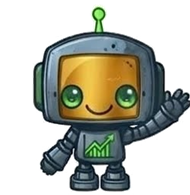
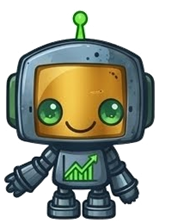
העשרת ניפנוף טולי לרצף חלק של 5 פריימים (מנוחה + 4 שלבי הרמה/ניפנוף)
טל ביקש להעשיר עוד עם פריימים מהגיליון עם 16 הפוזות כדי לקבל
תנועת יד חלקה יותר. נבחרו והתיישרו 5 פריימים עקביים: מנוחה,
הרמת יד (נמוך), ניפנוף (בינוני), ניפנוף (גבוה, זווית א'), ניפנוף
(גבוה, זווית ב') - עם ניקוי פגם קטן שנמצא באחד הפריימים. הרצף:
מנוחה -> הרמה -> 3 שלבי ניפנוף -> חזרה בסדר הפוך -> מנוחה,
עדיין במעבר חד (לא דהייה) בין כל שלב.

diff --git a/style.css b/style.css
@@ -1944,21 +1944,23 @@ body.keyboard-nav [tabindex]:focus {
 .tuli-fab:hover { transform: scale(1.06); }
 .tuli-fab:focus-visible { outline: 3px solid var(--gold); outline-offset: 3px; border-radius: 50%; }
 .tuli-fab img { width: 67px; height: 67px; object-fit: contain; animation: tuliBob 2.6s ease-in-out infinite; }
-.tuli-fab .tuli-fab-rise, .tuli-fab .tuli-fab-waveA, .tuli-fab .tuli-fab-waveB { position: absolute; inset: 0; }
-.tuli-fab .tuli-fab-rest  { animation: tuliBob 2.6s ease-in-out infinite, tuliRest 6s steps(1) infinite; }
-.tuli-fab .tuli-fab-rise  { animation: tuliBob 2.6s ease-in-out infinite, tuliRise 6s steps(1) infinite; }
-.tuli-fab .tuli-fab-waveA { animation: tuliBob 2.6s ease-in-out infinite, tuliWaveA 6s steps(1) infinite; }
-.tuli-fab .tuli-fab-waveB { animation: tuliBob 2.6s ease-in-out infinite, tuliWaveB 6s steps(1) infinite; }
+.tuli-fab .tuli-fab-w1, .tuli-fab .tuli-fab-w2, .tuli-fab .tuli-fab-w3, .tuli-fab .tuli-fab-w4 { position: absolute; inset: 0; }
+.tuli-fab .tuli-fab-rest { animation: tuliBob 2.6s ease-in-out infinite, tuliRest 7s steps(1) infinite; }
+.tuli-fab .tuli-fab-w1   { animation: tuliBob 2.6s ease-in-out infinite, tuliW1 7s steps(1) infinite; }
+.tuli-fab .tuli-fab-w2   { animation: tuliBob 2.6s ease-in-out infinite, tuliW2 7s steps(1) infinite; }
+.tuli-fab .tuli-fab-w3   { animation: tuliBob 2.6s ease-in-out infinite, tuliW3 7s steps(1) infinite; }
+.tuli-fab .tuli-fab-w4   { animation: tuliBob 2.6s ease-in-out infinite, tuliW4 7s steps(1) infinite; }
 @keyframes tuliBob { 0%, 100% { transform: translateY(0); } 50% { transform: translateY(-4px); } }
-/* רצף ניפנוף: מנוחה -> הרמת יד -> ניפנוף -> ניפנוף -> הרמת יד -> מנוחה */
-@keyframes tuliRest  { 0%, 55% { opacity: 1; } 55.01%, 84.99% { opacity: 0; } 85%, 100% { opacity: 1; } }
-@keyframes tuliRise  { 0%, 55% { opacity: 0; } 55.01%, 60% { opacity: 1; } 60.01%, 79.99% { opacity: 0; } 80%, 85% { opacity: 1; } 85.01%, 100% { opacity: 0; } }
-@keyframes tuliWaveA { 0%, 60% { opacity: 0; } 60.01%, 65% { opacity: 1; } 65.01%, 74.99% { opacity: 0; } 75%, 80% { opacity: 1; } 80.01%, 100% { opacity: 0; } }
-@keyframes tuliWaveB { 0%, 65% { opacity: 0; } 65.01%, 75% { opacity: 1; } 75.01%, 100% { opacity: 0; } }
+/* רצף ניפנוף חלק: מנוחה -> הרמה -> ניפנוף x3 -> חזרה -> מנוחה */
+@keyframes tuliRest { 0%, 50% { opacity: 1; } 50.01%, 86.99% { opacity: 0; } 87%, 100% { opacity: 1; } }
+@keyframes tuliW1 { 0%, 50% { opacity: 0; } 50.01%, 55% { opacity: 1; } 55.01%, 81.99% { opacity: 0; } 82%, 87% { opacity: 1; } 87.01%, 100% { opacity: 0; } }
+@keyframes tuliW2 { 0%, 55% { opacity: 0; } 55.01%, 60% { opacity: 1; } 60.01%, 76.99% { opacity: 0; } 77%, 82% { opacity: 1; } 82.01%, 100% { opacity: 0; } }
+@keyframes tuliW3 { 0%, 60% { opacity: 0; } 60.01%, 65% { opacity: 1; } 65.01%, 71.99% { opacity: 0; } 72%, 77% { opacity: 1; } 77.01%, 100% { opacity: 0; } }
+@keyframes tuliW4 { 0%, 65% { opacity: 0; } 65.01%, 72% { opacity: 1; } 72.01%, 100% { opacity: 0; } }
 @media (prefers-reduced-motion: reduce) {
-  .tuli-fab .tuli-fab-rest, .tuli-fab .tuli-fab-rise, .tuli-fab .tuli-fab-waveA, .tuli-fab .tuli-fab-waveB { animation: none; }
+  .tuli-fab .tuli-fab-rest, .tuli-fab .tuli-fab-w1, .tuli-fab .tuli-fab-w2, .tuli-fab .tuli-fab-w3, .tuli-fab .tuli-fab-w4 { animation: none; }
   .tuli-fab .tuli-fab-rest { opacity: 1; }
-  .tuli-fab .tuli-fab-rise, .tuli-fab .tuli-fab-waveA, .tuli-fab .tuli-fab-waveB { opacity: 0; }
+  .tuli-fab .tuli-fab-w1, .tuli-fab .tuli-fab-w2, .tuli-fab .tuli-fab-w3, .tuli-fab .tuli-fab-w4 { opacity: 0; }
 }
 .tuli-panel {
   position: absolute; bottom: 68px; left: 0; width: 320px; max-height: 480px;

diff --git a/index.html b/index.html
@@ -2125,9 +2125,10 @@
   <div class="tuli-widget" id="tuli-widget">
     <button class="tuli-fab" id="tuli-fab" aria-label="פתח את טולי - העוזר הוירטואלי" aria-expanded="false">
       <img class="tuli-fab-rest" src="tuli-bot.png" alt="" />
-      <img class="tuli-fab-rise" src="tuli-bot-wave1.png" alt="" />
-      <img class="tuli-fab-waveA" src="tuli-bot-wave2.png" alt="" />
-      <img class="tuli-fab-waveB" src="tuli-bot-wave3.png" alt="" />
+      <img class="tuli-fab-w1" src="tuli-bot-wave1.png" alt="" />
+      <img class="tuli-fab-w2" src="tuli-bot-wave2.png" alt="" />
+      <img class="tuli-fab-w3" src="tuli-bot-wave3.png" alt="" />
+      <img class="tuli-fab-w4" src="tuli-bot-wave4.png" alt="" />
     </button>
     <div class="tuli-panel" id="tuli-panel" role="dialog" aria-label="צ'אט עם טולי" aria-hidden="true">
       <div class="tuli-panel-head">

diff --git a/en/index.html b/en/index.html
@@ -1150,9 +1150,10 @@
   <div class="tuli-widget" id="tuli-widget">
     <button class="tuli-fab" id="tuli-fab" aria-label="Open Tuli - the virtual assistant" aria-expanded="false">
       <img class="tuli-fab-rest" src="../tuli-bot.png" alt="" />
-      <img class="tuli-fab-rise" src="../tuli-bot-wave1.png" alt="" />
-      <img class="tuli-fab-waveA" src="../tuli-bot-wave2.png" alt="" />
-      <img class="tuli-fab-waveB" src="../tuli-bot-wave3.png" alt="" />
+      <img class="tuli-fab-w1" src="../tuli-bot-wave1.png" alt="" />
+      <img class="tuli-fab-w2" src="../tuli-bot-wave2.png" alt="" />
+      <img class="tuli-fab-w3" src="../tuli-bot-wave3.png" alt="" />
+      <img class="tuli-fab-w4" src="../tuli-bot-wave4.png" alt="" />
     </button>
     <div class="tuli-panel" id="tuli-panel" role="dialog" aria-label="Chat with Tuli" aria-hidden="true">
       <div class="tuli-panel-head">
